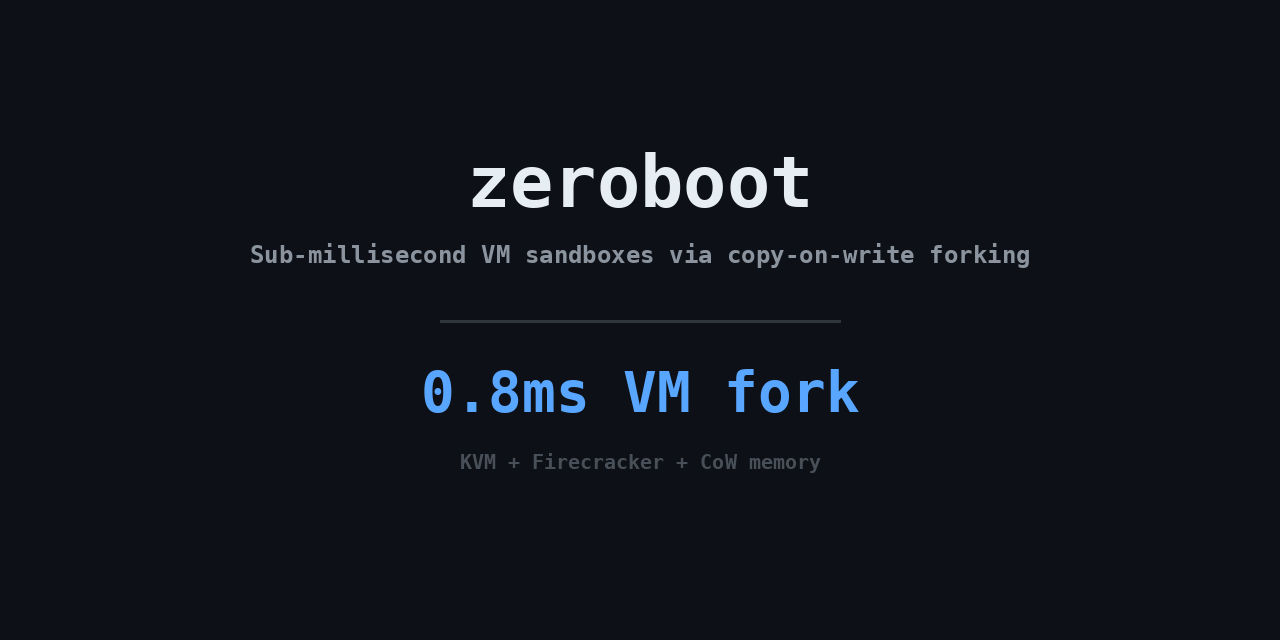
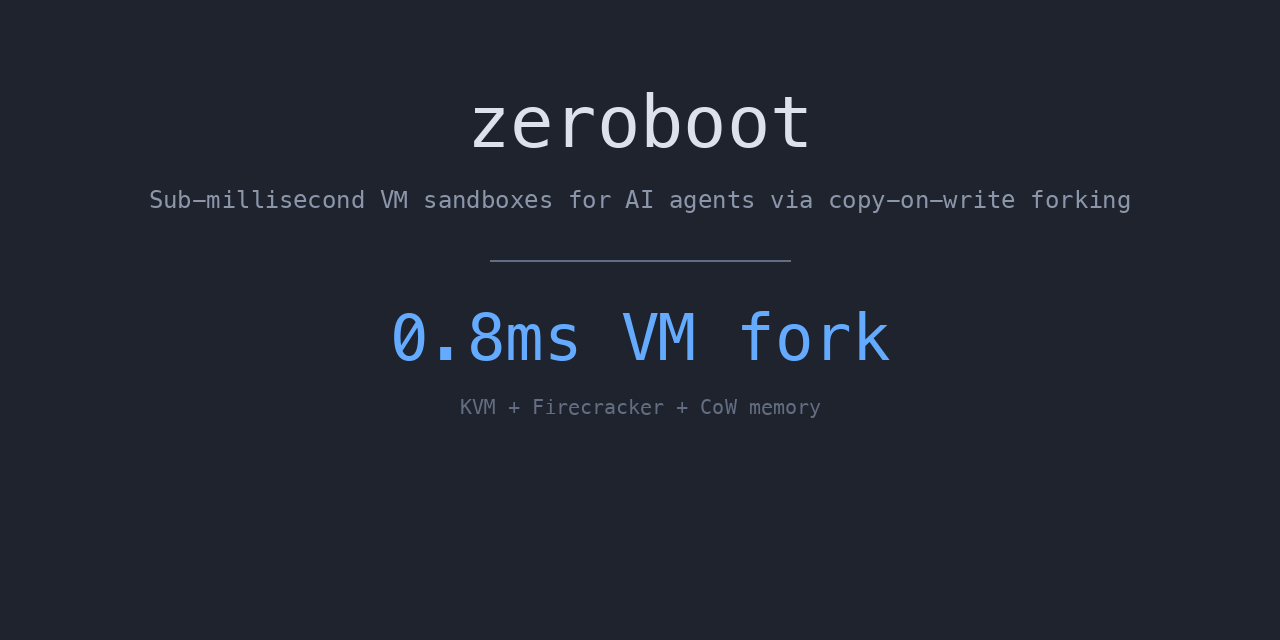
docs: unify tagline to "Sub-millisecond VM sandboxes for AI agents via copy-on-write forking"

diff --git a/sdk/python/README.md b/sdk/python/README.md
@@ -1,6 +1,6 @@
 # Zeroboot Python SDK
 
-Sub-millisecond code execution sandboxes. Each call runs in an isolated VM forked via copy-on-write memory cloning.
+Sub-millisecond VM sandboxes for AI agents via copy-on-write forking.
 
 ## Usage
 

diff --git a/sdk/node/README.md b/sdk/node/README.md
@@ -1,6 +1,6 @@
 # @zeroboot/sdk
 
-Sub-millisecond code execution sandboxes. Each call runs in an isolated VM forked via copy-on-write memory cloning.
+Sub-millisecond VM sandboxes for AI agents via copy-on-write forking.
 
 ## Usage
 

diff --git a/README.md b/README.md
@@ -3,7 +3,7 @@
 </p>
 
 <p align="center">
-  <strong>Sub-millisecond VM sandboxes via copy-on-write forking</strong>
+  <strong>Sub-millisecond VM sandboxes for AI agents via copy-on-write forking</strong>
 </p>
 
 <p align="center">
